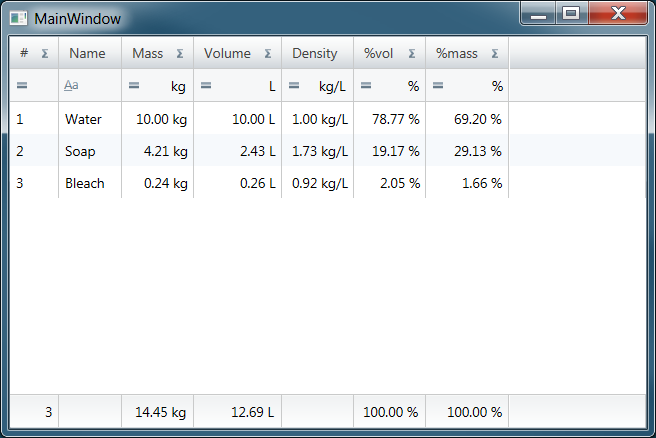
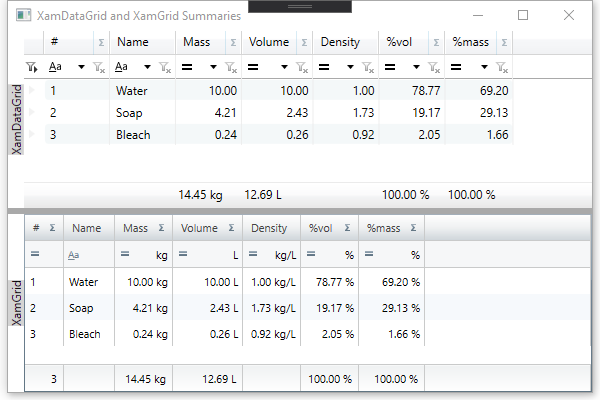
Added XamDataGrid to app. Missing UOM (unit of measure) labels though.

diff --git a/XamGridUpdateSummary/MainWindow.xaml b/XamGridUpdateSummary/MainWindow.xaml
@@ -4,13 +4,25 @@
 	xmlns:x="http://schemas.microsoft.com/winfx/2006/xaml"
 	xmlns:ig="http://schemas.infragistics.com/xaml"
 	xmlns:igPrim="http://schemas.infragistics.com/xaml/primitives"
+	xmlns:igDP="http://infragistics.com/DataPresenter"
 	xmlns:app="clr-namespace:XamGridUpdateSummary"
-	Title="MainWindow" Height="350" Width="525"
+	Title="XamDataGrid and XamGrid Summaries"
+	Height="400" Width="600"
 >
 	<Window.DataContext>
 		<app:MainViewModel/>
 	</Window.DataContext>
 	<Window.Resources>
+		<Style x:Key="VerticalTextBlock" TargetType="{x:Type TextBlock}">
+			<Setter Property="Background" Value="LightGray"/>
+			<Setter Property="HorizontalAlignment" Value="Center"/>
+			<Setter Property="VerticalAlignment" Value="Center"/>
+			<Setter Property="LayoutTransform">
+				<Setter.Value>
+					<RotateTransform Angle="-90"/>
+				</Setter.Value>
+			</Setter>
+		</Style>
 		<ContextMenu x:Key="GridCellContextMenu">
 			<MenuItem x:Name="CopyContextMenu" Header="_Copy" Command="{Binding CopyCommand}" CommandParameter="{Binding ActiveItem}" InputGestureText="Ctrl+C"/>
 			<MenuItem x:Name="PasteContextMenu" Header="_Paste" Command="{Binding PasteCommand}" CommandParameter="{Binding ActiveItem}" InputGestureText="Ctrl+V"/>
@@ -44,8 +56,157 @@
 		</ContextMenu>
 	</Window.Resources>
 	<Grid>
+		<Grid.ColumnDefinitions>
+			<ColumnDefinition Width="Auto"/>
+			<ColumnDefinition Width="*"/>
+		</Grid.ColumnDefinitions>
+		<Grid.RowDefinitions>
+			<RowDefinition Height="1*" MinHeight="100"/>
+			<RowDefinition Height="Auto"/>
+			<RowDefinition Height="1*" MinHeight="100"/>
+		</Grid.RowDefinitions>
+
+		<TextBlock
+			Grid.Row="0" Grid.Column="0"
+			Style="{StaticResource VerticalTextBlock}"
+			Text="XamDataGrid"/>
+
+		<igDP:XamDataGrid
+			x:Name="FormulaDataGrid"
+			Grid.Row="0" Grid.Column="1"
+			ActiveDataItem="{Binding ActiveItem}"
+			DataSource="{Binding Formula.Components}"
+			GroupByAreaLocation="None">
+			<igDP:XamDataGrid.FieldLayoutSettings>
+				<igDP:FieldLayoutSettings AutoGenerateFields="False"
+										  HighlightAlternateRecords="True"/>
+			</igDP:XamDataGrid.FieldLayoutSettings>
+			<igDP:XamDataGrid.FieldSettings>
+				<igDP:FieldSettings AllowEdit="True"
+									AllowRecordFiltering="True"
+									SummaryDisplayArea="BottomFixed"/>
+			</igDP:XamDataGrid.FieldSettings>
+			<igDP:XamDataGrid.FieldLayouts>
+				<igDP:FieldLayout>
+					<igDP:TextField
+						Name="Position"
+						Label="#"
+						Width="Auto">
+						<igDP:TextField.Settings>
+							<igDP:FieldSettings AllowSummaries="True"/>
+						</igDP:TextField.Settings>
+					</igDP:TextField>
+					<igDP:TextField
+						Name="Name"
+						Label="Name"
+						Width="Auto">
+						<igDP:TextField.Settings>
+							<igDP:FieldSettings AllowSummaries="False"/>
+						</igDP:TextField.Settings>
+					</igDP:TextField>
+					<igDP:Field
+						Name="Mass"
+						Label="Mass"
+						Format="N2"
+						HorizontalContentAlignment="Right"
+						Width="Auto">
+						<igDP:Field.Settings>
+							<igDP:FieldSettings AllowSummaries="True"/>
+						</igDP:Field.Settings>
+					</igDP:Field>
+					<igDP:Field
+						Name="Volume"
+						Label="Volume"
+						Format="N2"
+						HorizontalContentAlignment="Right"
+						Width="Auto">
+						<igDP:Field.Settings>
+							<igDP:FieldSettings AllowSummaries="True"/>
+						</igDP:Field.Settings>
+					</igDP:Field>
+					<igDP:Field
+						Name="Density"
+						Label="Density"
+						Format="N2"
+						HorizontalContentAlignment="Right"
+						Width="Auto">
+						<igDP:Field.Settings>
+							<igDP:FieldSettings AllowSummaries="False"/>
+						</igDP:Field.Settings>
+					</igDP:Field>
+					<igDP:Field
+						Name="PercentByVolume"
+						Label="%vol"
+						Format="N2"
+						HorizontalContentAlignment="Right"
+						Width="Auto">
+						<igDP:Field.Settings>
+							<igDP:FieldSettings AllowEdit="False" AllowSummaries="True"/>
+						</igDP:Field.Settings>
+					</igDP:Field>
+					<igDP:Field
+						Name="PercentByMass"
+						Label="%mass"
+						Format="N2"
+						HorizontalContentAlignment="Right"
+						Width="Auto">
+						<igDP:Field.Settings>
+							<igDP:FieldSettings AllowEdit="False" AllowSummaries="True"/>
+						</igDP:Field.Settings>
+					</igDP:Field>
+
+					<igDP:FieldLayout.SummaryDefinitions>
+						<igDP:SummaryDefinition
+							Calculator="{x:Static igDP:SummaryCalculator.Sum}"
+							SourceFieldName="Mass"
+							Key="MassSum"
+							StringFormat="{}{0:N2} kg"/>
+						<igDP:SummaryDefinition
+							Calculator="{x:Static igDP:SummaryCalculator.Sum}"
+							SourceFieldName="Volume"
+							Key="VolumeSum"
+							StringFormat="{}{0:N2} L"/>
+						<igDP:SummaryDefinition
+							Calculator="{x:Static igDP:SummaryCalculator.Sum}"
+							SourceFieldName="PercentByMass"
+							Key="PercentByMassSum"
+							StringFormat="{}{0:N2} %"/>
+						<igDP:SummaryDefinition
+							Calculator="{x:Static igDP:SummaryCalculator.Sum}"
+							SourceFieldName="PercentByVolume"
+							Key="PercentByVolumeSum"
+							StringFormat="{}{0:N2} %"/>
+					</igDP:FieldLayout.SummaryDefinitions>
+				</igDP:FieldLayout>
+			</igDP:XamDataGrid.FieldLayouts>
+		</igDP:XamDataGrid>
+
+		<GridSplitter
+			Grid.ColumnSpan="2"
+			Grid.Row="1"
+			Focusable="False"
+			Height="6"
+			HorizontalAlignment="Stretch"
+			VerticalAlignment="Center"
+			ResizeBehavior="PreviousAndNext">
+			<GridSplitter.Template>
+				<ControlTemplate TargetType="{x:Type GridSplitter}">
+					<Grid>
+						<Button Content="····"/>
+						<Rectangle Fill="DarkGray"/>
+					</Grid>
+				</ControlTemplate>
+			</GridSplitter.Template>
+		</GridSplitter>
+
+		<TextBlock
+			Grid.Row="2" Grid.Column="0"
+			Style="{StaticResource VerticalTextBlock}"
+			Text="XamGrid"/>
+
 		<ig:XamGrid
 			x:Name="FormulaGrid"
+			Grid.Row="2" Grid.Column="1"
 			AutoGenerateColumns="False"
 			ActiveItem="{Binding ActiveItem}"
 			ItemsSource="{Binding Formula.Components}"
@@ -182,7 +343,7 @@
 					Key="Density"
 					HeaderText="Density"
 					FormatString="{}{0:N2} kg/L"
-										HorizontalContentAlignment="Right"
+					HorizontalContentAlignment="Right"
 					Width="Auto"
 					IsSummable="False"/>
 				<ig:TextColumn
@@ -217,5 +378,6 @@
 				</ig:TextColumn>
 			</ig:XamGrid.Columns>
 		</ig:XamGrid>
+
 	</Grid>
 </Window>

diff --git a/XamGridUpdateSummary/ComponentItem.cs b/XamGridUpdateSummary/ComponentItem.cs
@@ -111,11 +111,16 @@ namespace XamGridUpdateSummary
                     case nameof(Mass):
                         if (Density != 0.0)
                             Volume = Mass / Density;
+                        else if (Density == 0 && Mass > 0 && Volume > 0)
+                            Density = Mass / Volume;
                         else
                             Volume = 0.0;
                         break;
                     case nameof(Volume):
-                        Mass = Density * Volume;
+                        if (Density == 0 && Mass > 0 && Volume > 0)
+                            Density = Mass / Volume;
+                        else
+                            Mass = Density * Volume;
                         break;
                     default:
                         break;

diff --git a/ReadMe.md b/ReadMe.md
@@ -1,18 +1,19 @@
-# XamGrid Issues
+# XamDataGrid (and XamGrid) Summaries Example
 
 I created this project intending to ask the following questions from Infragistics, but ultimately solved them before I asked the questions.
-I am posting this to help others that may experience challenges with Infragistics XamGrid.
-I started with Infragistics WPF v14.1 and eventually upgraded to v14.2.
+I am posting this to help others that may experience challenges with Infragistics `XamGrid`.
+I started with Infragistics WPF v14.1 and eventually upgraded to v20.1.
+
+This project was originally for `XamGrid`, but now includes `XamDataGrid` since that is the primary focus going forward. The `XamGrid` still has an issue with summaries where it needs to be manually refreshed when a value involved in the summary changes. I used a code-behind hack to solve this back in 2014 and it looks like it is still necessary.
+
+## Overview
 
 This project is a simple formula (recipe or batch) calculator for percentage mass and percentage volume. The density is used to convert
 between mass and volume, and then calculate the mass and volume percentages for each component, and finally for the overall formula.
 
 ![MainWindow Screenshot](MainWindow.png)
 
-I used [Fody](https://github.com/Fody/Fody) and [PropertyChanged.Fody](https://github.com/Fody/PropertyChanged) for simple
-`INotifyPropertyChanged` implementation.
-
-## Resolved Issues
+## XamGrid Resolved Issues
 
 1. `Invalid Markup` when using SumSummaryOperand in XAML
 
@@ -48,6 +49,7 @@ I used [Fody](https://github.com/Fody/Fody) and [PropertyChanged.Fody](https://g
 
     ViewModel:
 
+```C#
 		/// <summary>
 		/// HACK: Linking refresh summary from view to view model (MVVM support)
 		/// </summary>
@@ -57,9 +59,11 @@ I used [Fody](https://github.com/Fody/Fody) and [PropertyChanged.Fody](https://g
 			get { return _refreshSummaries; }
 			set { _refreshSummaries = value; }
 		}
+```
 
     Code Behind - MainWindow.xaml.cs:
 
+```C#
 		public MainWindow()
 		{
 			InitializeComponent();
@@ -77,9 +81,9 @@ I used [Fody](https://github.com/Fody/Fody) and [PropertyChanged.Fody](https://g
 					if (FormulaGrid.Rows.Count > 0)
 						FormulaGrid.Rows[0].Manager.RefreshSummaries();
 				};
-			}            
+			}
 		}
-
+```
 
 3. Right-click ContextMenu and ActiveItem
 
@@ -90,6 +94,7 @@ I used [Fody](https://github.com/Fody/Fody) and [PropertyChanged.Fody](https://g
 
     **Solution:**
 
+```C#
 		/// <summary>
 		/// Updates the ActiveCell when the right mouse button is pressed
 		/// </summary>
@@ -105,11 +110,12 @@ I used [Fody](https://github.com/Fody/Fody) and [PropertyChanged.Fody](https://g
 				FormulaGrid.ActiveCell = cell.Cell;
 			Trace.TraceInformation("MouseRightButtonDown: ({0}, {1}), ActiveCell: {2}", pos.X, pos.Y, FormulaGrid.ActiveCell);
 		}
+```
 
 ## Outstanding Issues
 
 1. Move Up / Move Down causes the ActiveCell to change to the first cell in the row
 
-2. Right-click context menu on the grid shows the same context menu everywhere on the grid, including header and summary rows.
+2. ~~Right-click context menu on the grid shows the same context menu everywhere on the grid, including header and summary rows.~~
 
 3. Change above solutions to be more MVVM friendly, e.g. write Behaviors for the same functionality
